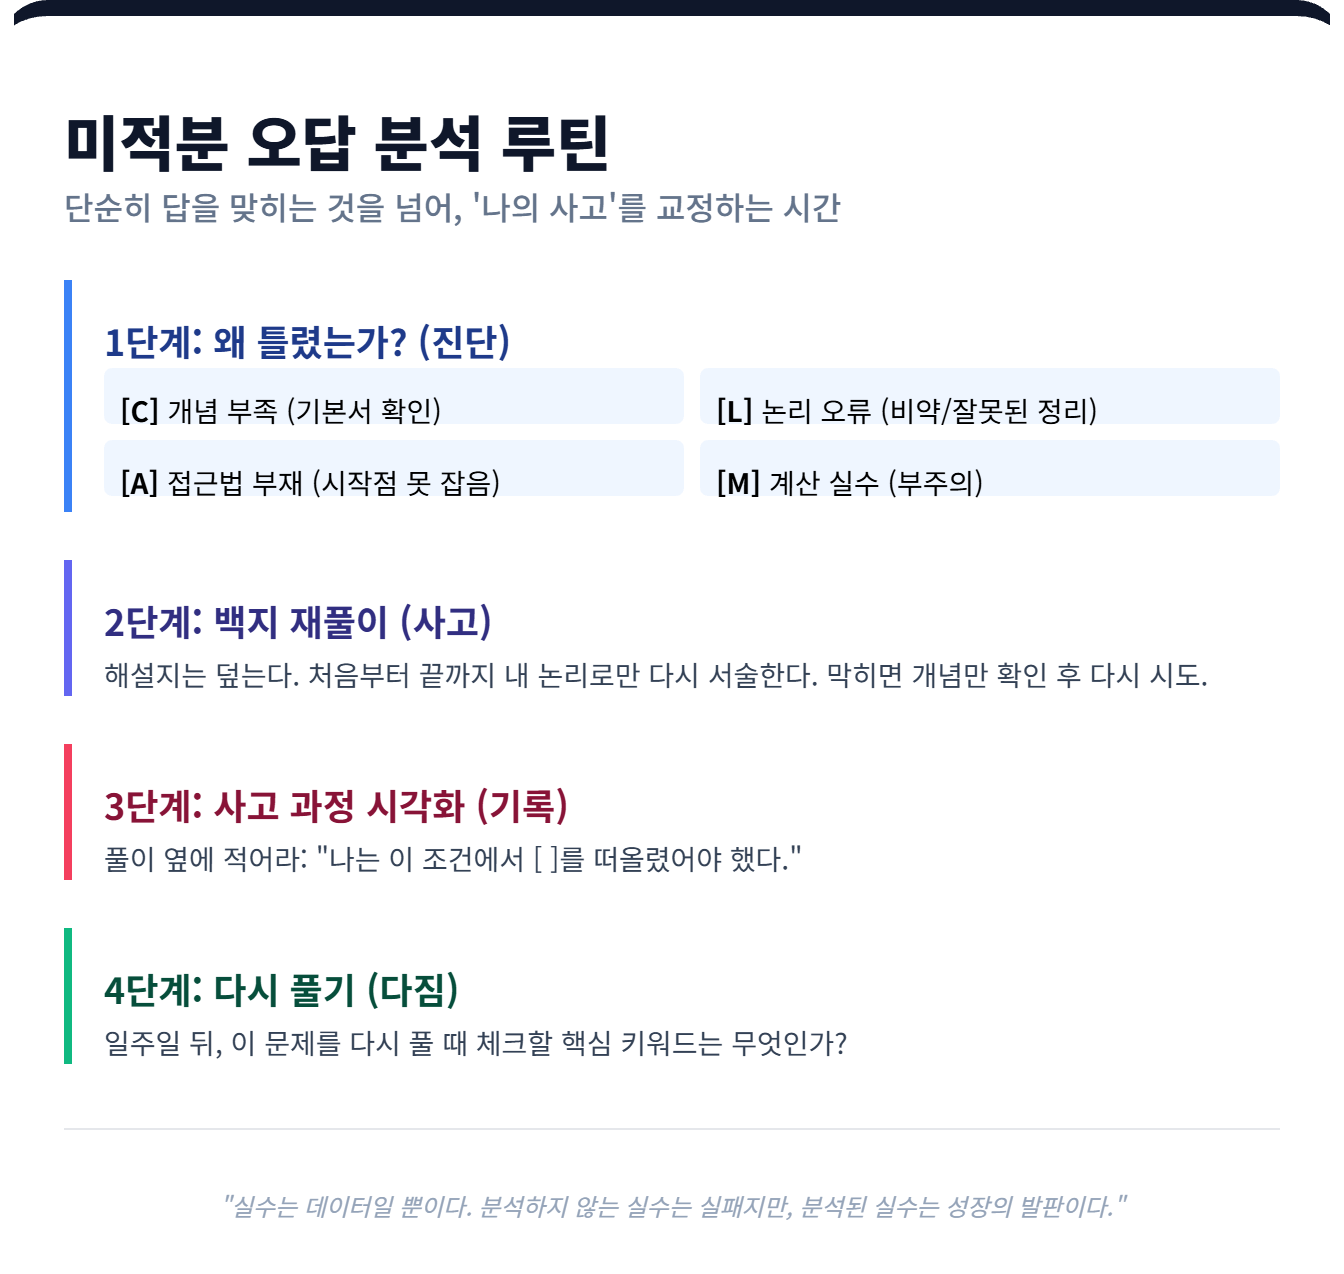
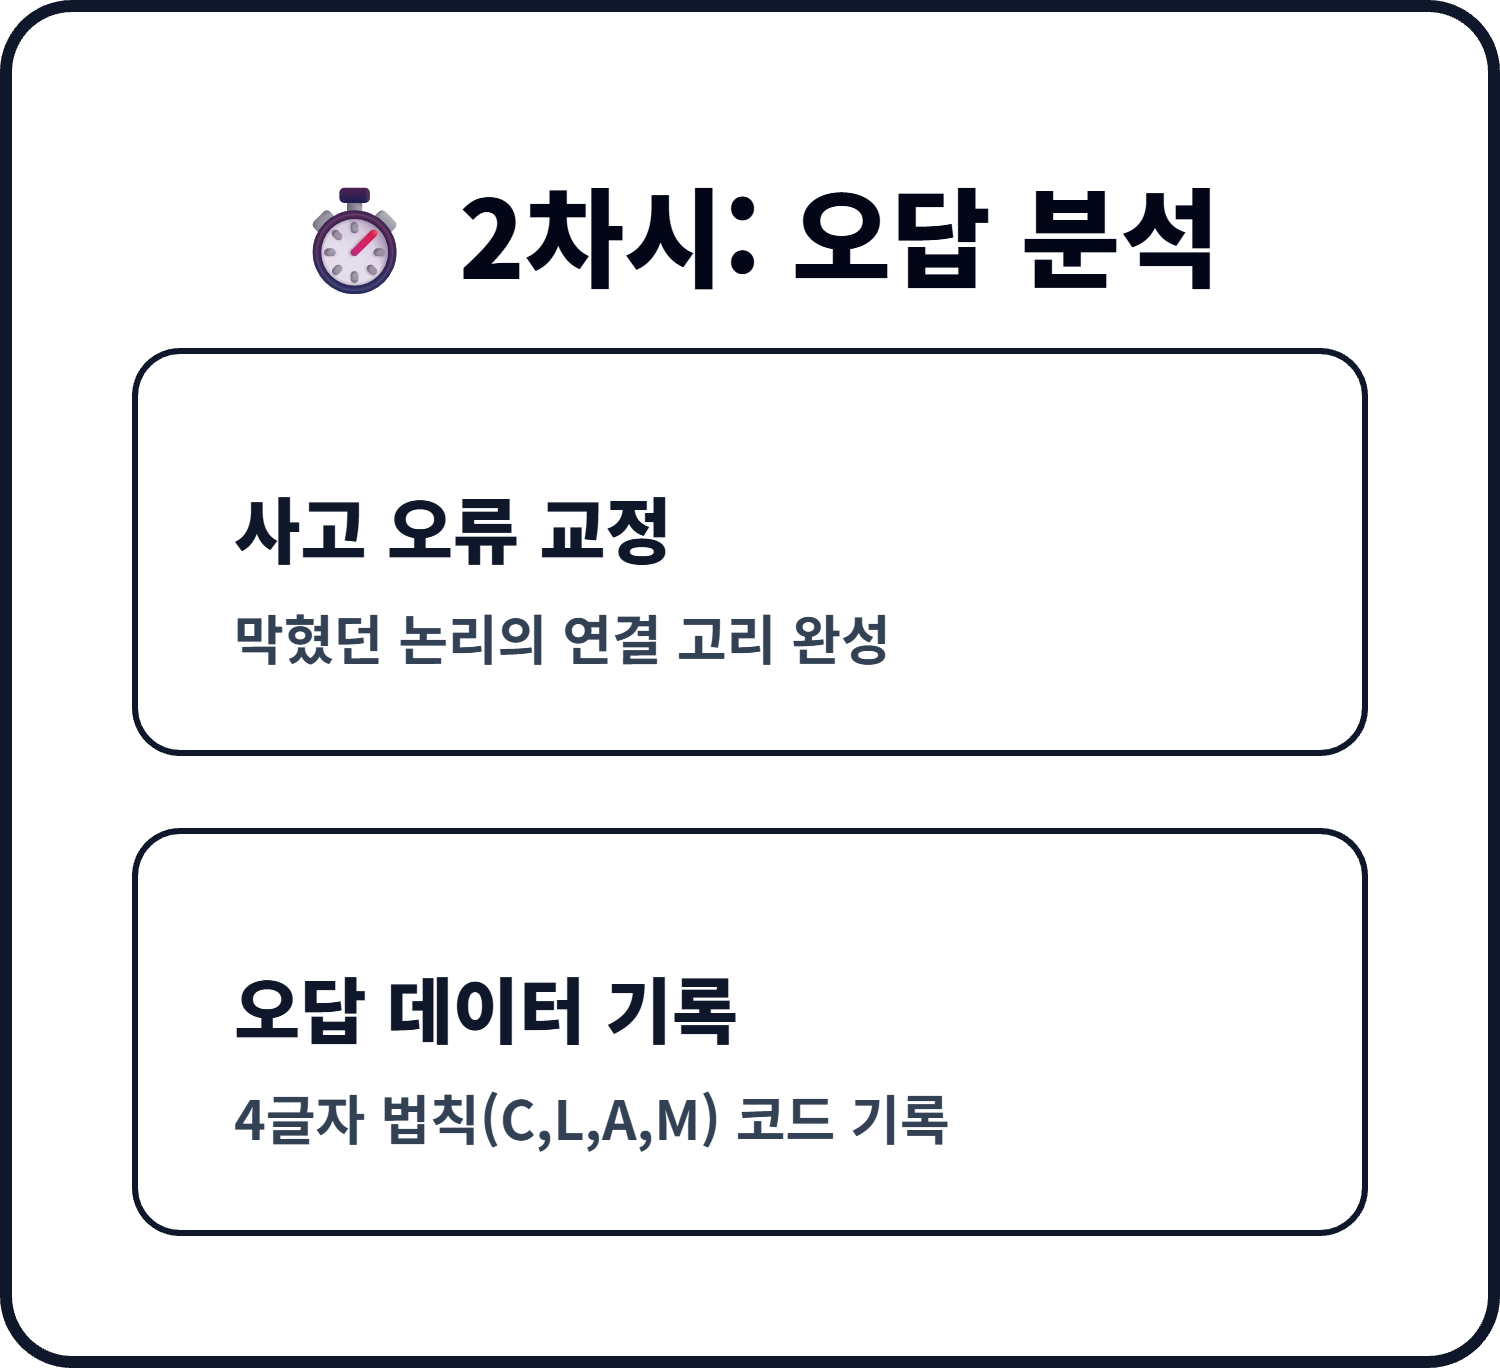
Update image files to solve and review

diff --git a/index.html b/index.html
@@ -675,7 +675,7 @@
   function defaultActivities() {
     return [
       normalizeActivity({ id: uid(), category: "class-start", name: T.detoxName, sub: T.detoxSub, minutes: 0, image: "images/detox.png", content: { image: true, text: true, timer: false } }),
-      normalizeActivity({ id: uid(), category: "solve", name: T.solveName, sub: T.solveSub, minutes: 40, image: "images/rules.png", content: { image: true, text: true, timer: true } }),
+      normalizeActivity({ id: uid(), category: "solve", name: T.solveName, sub: T.solveSub, minutes: 40, image: "images/solve.png", content: { image: true, text: true, timer: true } }),
       normalizeActivity({ id: uid(), category: "review", name: T.reviewName, sub: T.reviewSub, minutes: 30, image: "images/review.png", content: { image: true, text: true, timer: true } }),
       normalizeActivity({ id: uid(), category: "assessment", name: "\uC218\uD589\uD3C9\uAC00", sub: "\uD734\uB300\uD3F0 \uC81C\uCD9C\n\uD559\uB144\u00B7\uC774\uB984 \uC791\uC131", fontKey: "pretendard", minutes: 25, content: { image: false, text: true, timer: true } })
     ];